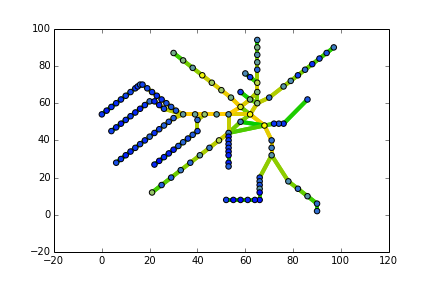
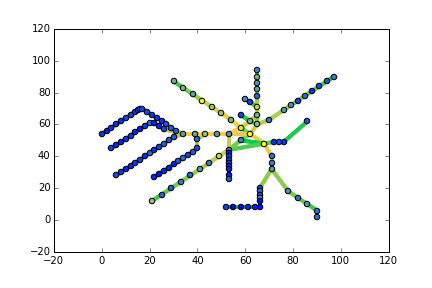
some things

diff --git a/graph.py b/graph.py
@@ -345,27 +345,19 @@ class Graph:
             
         self.congestion = cong  
         
-<<<<<<< HEAD
-    def draw(self, colorCalculation, recalculate = False): 
-        if recalculate or len(self.congestion) == 0: 
-            self.calculateCongestion() 
-=======
-    def draw(self, colorCalculation, congestion = True, recalculate = False):
->>>>>>> 77fb9d691bb7a1c6b8378c60fe1081bfc22edf43
-        
+    def draw(self, colorCalculation, recalculate = False, congestion = True):
         pos={} 
         for i in range(self.num_stations): 
-            pos[i] = self.station_lookup[i]['Position']        
-            
+            pos[i] = self.station_lookup[i]['Position']              
+        
         if not congestion: 
             nx.draw(self.graph_obj, pos, node_size = 15) 
+            plt.show()
             return 
             
-        if recalculate or not hasattr(self, 'congestion'): 
+        if recalculate or len(self.congestion) == 0: 
             self.calculateCongestion() 
-        
 
-            
         # Colorful nodes representing the total usage of that station 
         for i in range(len(self.station_lookup)): 
             usage = self.station_lookup[i]['Usage']
@@ -382,7 +374,7 @@ class Graph:
 #%% 
                 
 def main():
-<<<<<<< HEAD
+
     file_name = ''
     print "Would you like Boston (B) or Paris (P)?" 
     answer = get_user_input(['B', 'P'])
@@ -392,29 +384,28 @@ def main():
         file_name = 'paris_orig.csv' 
     
     subway = Graph(None, file_name)       
-=======
-    subway = Graph(None,'BostonData.csv')               
-    #%%               
-    def color(c): 
-        return [ 1 - (1-c) ** 10, 0.8, 0.3]   
->>>>>>> 77fb9d691bb7a1c6b8378c60fe1081bfc22edf43
     
     def color(c): 
-        return [ 1 - (1-c) ** 5, 0.8, 0.3]      
-    
+        return [ 1 - (1-c) ** 5, 0.8, 0.3]    
+        
+
     print '''What would you like to do? \n 
+    - See the Graph (Type 'G')
     - Display a Congestion Map (Type 'D') 
     - Try Adding a New Edge (Type: 'A') 
     - Run Simulation (Type: 'S')
     '''
-    answer = get_user_input(['D', 'A', 'S'])
+    answer = get_user_input(['G', 'D', 'A', 'S'])
+    
     if answer == 0: 
+        subway.draw(color, False, False)   
+    elif answer == 1: 
         subway.draw(color)
         plt.savefig("path.png") # save as png
         plt.title("Congestion Map")
         plt.show() 
         return subway
-    elif answer == 1: 
+    elif answer == 2: 
         print 'Type the name of the first station'  
         while (True): 
             try: 
@@ -439,7 +430,7 @@ def main():
         subway.draw(color, True)
         
         return subway
-    elif answer == 2: 
+    elif answer == 3: 
         pass
 
 #%%
